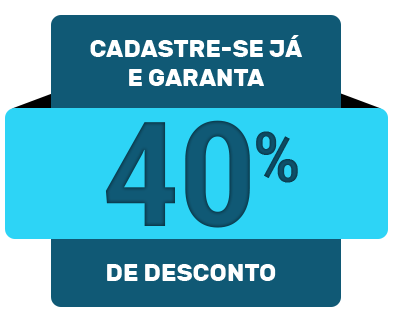
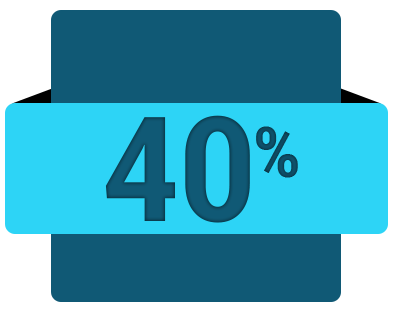
AM 03 - Call to Action

diff --git a/css/css.css b/css/css.css
@@ -23,6 +23,62 @@ body{
 
 /* Call To Action */
 
+.bgImageOne{
+    background-image: url(../images/bgOne.jpg);
+    background-repeat: no-repeat;
+    background-position: center center;
+    background-size: cover;
+}
 
+.bgCall{
+    background-image: url(../images/promo.png);
+    background-repeat: no-repeat;
+    background-position: center top;
+    background-size: contain;
+
+    margin-top: 15%;
+    margin-bottom: 15%;
+}
+
+.txtCallOne, .txtCallTwo, .txtCallThree{
+    color: #fff;
+    font-size: 1.5em;
+    text-align: center;
+    font-weight: 700;
+    text-transform: uppercase;
+    line-height: 20px;
+}
+
+.txtCallOne{
+    margin-top: 35px;
+    margin-bottom: 160px;
+}
+
+.txtCallTwo{
+    margin-bottom: 35px;
+}
+
+.bgForm{
+    background-color: #105975;
+    border-radius: 10px;
+    padding: 5% 5% 0 5%;
+}
+
+.bgFormMarg{
+    margin-top: 16%;
+}
+
+.hotEnviar{
+    background-color: #2dd4f6;
+    border: 0;
+    border-radius: 5px;
+    padding: 3%;
+    color: #000;
+    font-weight: 700;
+}
+
+.hotEnviar:hover{
+    color: #fff;
+}
 
 /* /Call To Action */

diff --git a/index.php b/index.php
@@ -1,0 +1,113 @@
+<!DOCTYPE html>
+<html lang="en">
+  <head>
+    <meta charset="UTF-8">
+	<meta http-equiv="X-UA-Compatible" content="IE=edge">
+	<meta name="viewport" content="width=device-width, initial-scale=1">
+    <title>Amani Design</title>
+    <!-- Bootstrap -->
+	<link href="css/bootstrap.css" rel="stylesheet">
+	<link href="css/css.css" rel="stylesheet">
+
+	<!-- HTML5 shim and Respond.js for IE8 support of HTML5 elements and media queries -->
+	<!-- WARNING: Respond.js doesn't work if you view the page via file:// -->
+	<!--[if lt IE 9]>
+		  <script src="https://oss.maxcdn.com/html5shiv/3.7.2/html5shiv.min.js"></script>
+		  <script src="https://oss.maxcdn.com/respond/1.4.2/respond.min.js"></script>
+		<![endif]-->
+  </head>
+  <body>
+
+		<div class="container-fluid bgColorOne">
+			<div class="container">
+				<div class="col-lg-12">
+					<img src="images/logo.jpg" class="img-responsive center-block" alt="">
+				</div>
+			</div>
+		</div>
+
+
+		<header class="container-fluid bgImageOne">
+			<div class="container">
+				<div class="row">
+					<div class="col-lg-6 bgCall">
+						<p class="txtCallOne">Cadastre-se já<br/>e garanta</p>
+						<p class="txtCallTwo">de desconto</p>
+					</div>
+
+					<div class="col-lg-6 bgFormMarg">
+						<div class="row">
+							<div class="col-lg-6 col-lg-offset-3 bgForm">
+								<p class="txtCallThree">PREENCHA e ganhe!</p>
+								<div class="formLocale">
+
+
+								<!--   Formulário  -->
+									<form class="form-horizontal" name="form-gohotsale" id="form-gohotsale" method="POST" action="https://gohotsale.com.br/leads" novalidate>
+										<input type="hidden" name="hotsite" id="hotsite" value="polo-interiores-hotsite">
+										<input type="hidden" name="company" id="company" value="polo-interiores">
+										<fieldset>
+											<?php if(isset($_GET['error']) && $_GET['error'] === 'profanity') { ?>
+											<div class="alert alert-danger" role="alert"> <span class="glyphicon glyphicon-exclamation-sign" aria-hidden="true"></span> <span class="sr-only">Erro:</span> Seja mais educado! </div>
+											<?php } ?>
+											<?php if(isset($_GET['error']) && $_GET['error'] === 'repeat') { ?>
+											<div class="alert alert-danger" role="alert"> <span class="glyphicon glyphicon-exclamation-sign" aria-hidden="true"></span> <span class="sr-only">Erro:</span> Verifique os seus dados e tente novamente! </div>
+											<?php } ?>
+											<!-- Text input-->
+											<div class="form-group">
+											<!--label class="col-md-4 control-label" for="nome">Nome</label-->
+											<div class="col-md-12">
+												<input id="name" name="name" type="text" data-required placeholder="Nome" class="form-control input-md formulario" value="<?php if(isset($_GET['name'])) { echo $_GET['name']; } ?>" required="required">
+											</div>
+											</div>
+											<!-- Text input-->
+											<div class="form-group">
+											<!--label class="col-md-4 control-label" for="email">E-mail</label-->
+											<div class="col-md-12">
+												<input id="email" name="email" type="email" data-required placeholder="E-mail" class="form-control input-md formulario" value="<?php if(isset($_GET['email'])) { echo $_GET['email']; } ?>" required="required">
+											</div>
+											</div>
+		
+											<!-- Text input-->
+											<div class="form-group">
+											<!--label class="col-md-4 control-label" for="telefone">Telefone</label-->
+											<div class="col-md-12">
+												<input id="phone" name="phone" type="text" data-required required="required" placeholder="Telefone" value="<?php if(isset($_GET['phone'])) { echo $_GET['phone']; } ?>" class="form-control input-md formulario">
+											</div>
+											</div>
+		
+											<!-- Button -->
+											<div class="form-group">
+											<!--label class="col-md-4 control-label" for="enviar"></label-->
+											<div class="col-md-12" style="text-align:center; margin-bottom: 10%;">
+												<button id="enviar" name="enviar" class="hotEnviar">ENVIAR E ENTRAR NO SITE</button>
+											</div>
+											</div>
+										</fieldset>
+									</form>
+							    <!--   Formulário  -->
+
+
+
+								</div>
+							</div>
+						</div>
+					</div>
+
+				</div>
+			</div>
+		</header>
+
+
+
+
+
+
+
+	<!-- jQuery (necessary for Bootstrap's JavaScript plugins) --> 
+	<script src="js/jquery-1.11.3.min.js"></script>
+
+	<!-- Include all compiled plugins (below), or include individual files as needed --> 
+	<script src="js/bootstrap.js"></script>
+  </body>
+</html>
